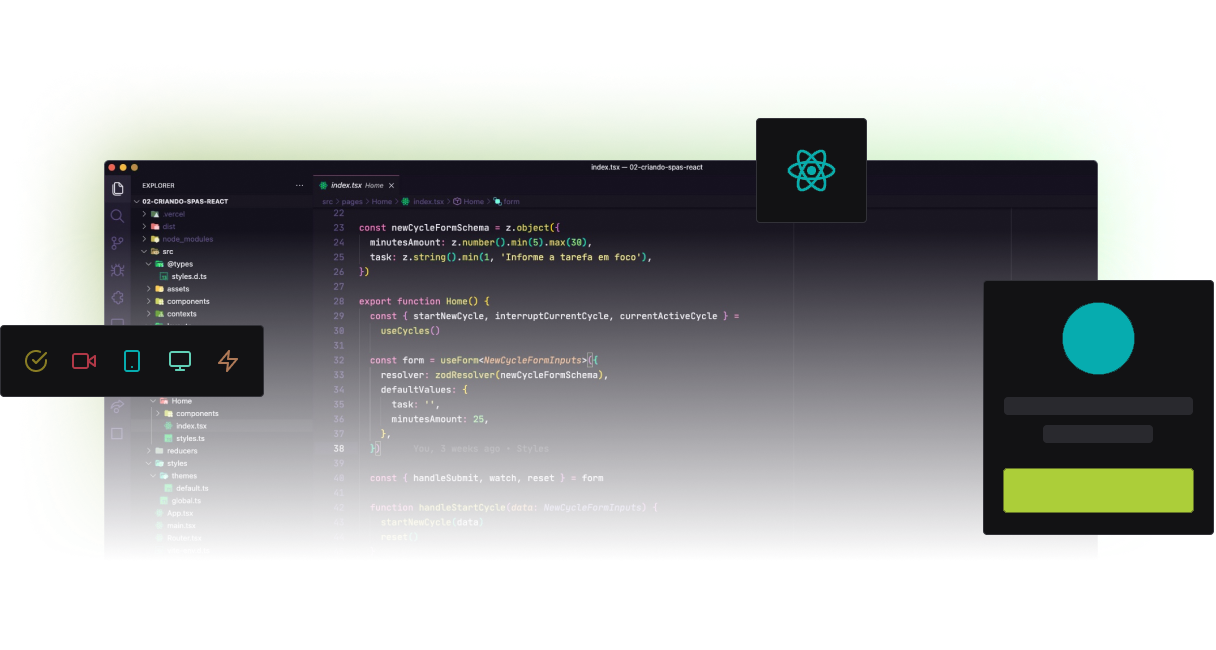
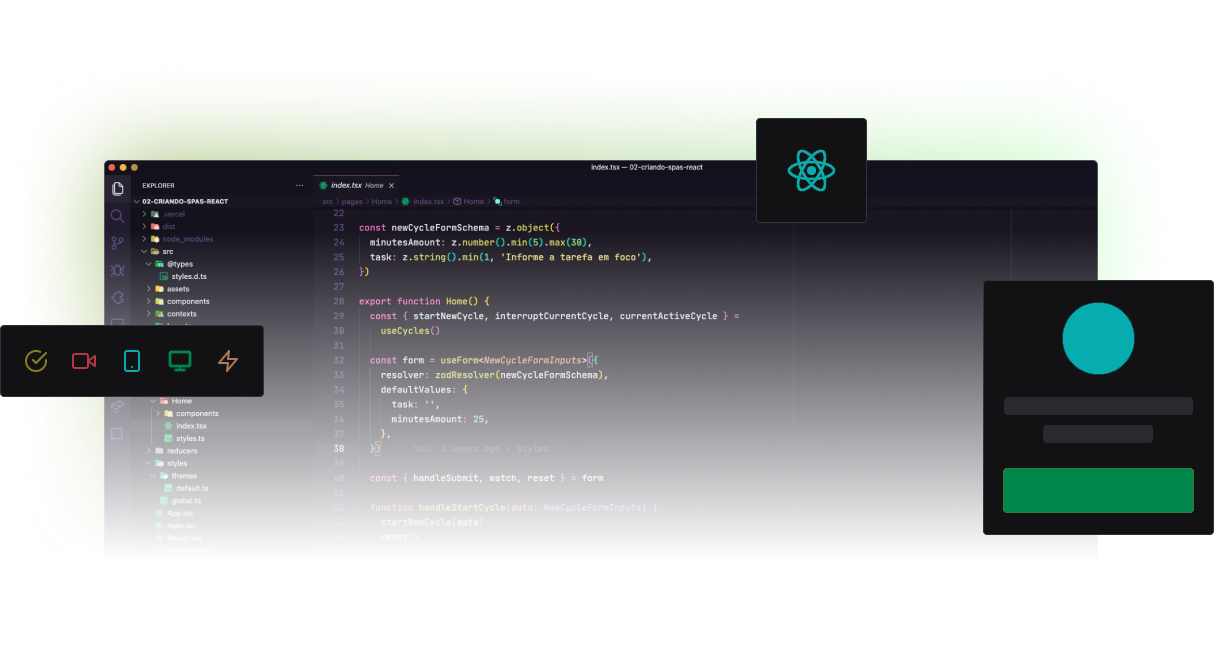
visualChanges

Changed region(s): [[0.8125, 0.7077, 1.0, 0.8], [0.125, 0.5231, 0.1562, 0.5846]]

diff --git a/src/components/VideoContent.tsx b/src/components/VideoContent.tsx
@@ -52,7 +52,7 @@ export function VideoContent(props: slugProps) {
             <p className="mt-4 text-gray-200 leading-relaxed whitespace-pre-wrap">{data?.lesson.description}</p>
             {data.lesson.teacher && (
               <div className="flex items-center gap-4 mt-6">
-              <img src={data?.lesson.teacher.avatarUrl} alt="teacherImg" className="h-16 w-16 rounded-full border-2 border-green-300" />
+              <img src={data?.lesson.teacher.avatarUrl} alt="teacherImg" className="h-16 w-16 rounded-full border-2 border-green-500" />
               <div className="leading-relaxed">
                 <strong className="font-bold text-2xl block">{data?.lesson.teacher.name}</strong>
                 <span className="text-gray-200 text-sm block whitespace-pre-wrap">{data?.lesson.teacher.bio}</span>
@@ -62,7 +62,7 @@ export function VideoContent(props: slugProps) {
           </div>
           <div className="flex flex-col gap-4">
             <a href="https://teams.microsoft.com/_#/conversations/19:d392b4c30811491ea5928ef26ac449fe@thread.v2?ctx=chat" target='_blank'
-              className="p-4 text-sm bg-green-300 text-gray-600 flex items-center rounded font-bold uppercase gap-2 justify-center hover:bg-green-700 hover:text-gray-200 transition-colors">
+              className="p-4 text-sm bg-green-500 text-white flex items-center rounded font-bold uppercase gap-2 justify-center hover:bg-green-700 hover:text-gray-200 transition-colors">
               <MicrosoftTeamsLogo size={24} />
               Comunidade do Teams
             </a>
@@ -75,7 +75,7 @@ export function VideoContent(props: slugProps) {
         </div>
         <div className="gap-8 mt-20 grid grid-cols-2">
           <a target='_blank' href="https://1drv.ms/u/s!AmJC1xFVjMCZjcJOZ2rriEfAruIq9A?e=bcWrV6" className="bg-gray-700 rounded overflow-hidden flex items-stretch gap-6 hover:bg-gray-600 transition-colors">
-            <div className="bg-green-300 h-full p-6 flex items-center text-gray-600">
+            <div className="bg-green-500 h-full p-6 flex items-center text-white">
               <FileArrowDown size={40} />
             </div>
             <div className="py-6 leading-relaxed">
@@ -87,7 +87,7 @@ export function VideoContent(props: slugProps) {
             </div>
           </a>
           <a target='_blank' href="https://1drv.ms/u/s!AmJC1xFVjMCZjcJPblUkyi7B8ukrQQ?e=xGcAd2" className="bg-gray-700 rounded overflow-hidden flex items-stretch gap-6 hover:bg-gray-600 transition-colors">
-            <div className="bg-green-300 h-full p-6 flex items-center text-gray-600">
+            <div className="bg-green-500 h-full p-6 flex items-center text-white">
               <Image size={40} />
             </div>
             <div className="py-6 leading-relaxed">

diff --git a/src/screens/Subscribe.tsx b/src/screens/Subscribe.tsx
@@ -34,7 +34,7 @@ export function Subscribe() {
                 <Logo />
               </Link>
               <h1 className="mt-8 text-[2.5rem] leading-tight">
-                Construa uma <strong className="text-green-300">aplicação completa</strong>, do zero, com <strong className="text-green-300">React JS</strong>
+                Construa uma <strong className="text-green-500">aplicação completa</strong>, do zero, com <strong className="text-green-500">React JS</strong>
               </h1>
               <p className="mt-4 text-gray-200 leading-relaxed">
                 Em apenas uma semana você vai dominar na prática uma das tecnologias mais utilizadas no mercado. Lembre-se, é necesario registrar presença NOS DIAS de mentoria para que a pontuação seja contabilizada.
@@ -57,7 +57,7 @@ export function Subscribe() {
                   onChange={event => setEmail(event.target.value)}
                   value={email}
                 />
-                <button disabled={loading} type="submit" className="mt-4 bg-green-300 uppercase py-4 rounded font-bold text-sm text-gray-500 hover:text-white hover:bg-green-700 transition-colors disabled:opacity-50">
+                <button disabled={loading} type="submit" className="mt-4 bg-green-500 uppercase py-4 rounded font-bold text-sm text-white hover:text-gray-200 hover:bg-green-700 transition-colors disabled:opacity-50">
                   Garantir presença
                 </button>
               </form>

diff --git a/src/components/Cards.tsx b/src/components/Cards.tsx
@@ -28,8 +28,8 @@ export function Cards(props: lesson) {
       </span>
 
       <div className={classNames('rounded border border-gray-500 p-4 mt-2', {
-        'bg-green-600 group-hover:border-white': slugActive,
-        'group-hover:border-green-300': !slugActive
+        'bg-green-500 group-hover:border-white': slugActive,
+        'group-hover:border-green-500': !slugActive
       })}>
 
         <header className='flex items-center justify-between'>
@@ -37,7 +37,7 @@ export function Cards(props: lesson) {
           {isLessonAvaliable ? (
             <span className={classNames('text-sm font-medium flex gap-2', {
               'text-white': slugActive,
-              'text-green-300': !slugActive
+              'text-green-500': !slugActive
             })}>
               <CheckCircle size={20} />
               Conteúdo liberado
@@ -50,7 +50,7 @@ export function Cards(props: lesson) {
 
           <span className={classNames('uppercase text-xs border rounded py-[0.125rem] px-[0.5rem] text-white font-bold', {
             'border-white': slugActive,
-            'border-green-300': !slugActive,
+            'border-green-500': !slugActive,
             'border-blue-500': !isLessonAvaliable
           })}>
             {props.type === 'class' ? 'aula teórica' : ' aula prática'}

diff --git a/src/styles/global.css b/src/styles/global.css
@@ -6,3 +6,24 @@ body {
   @apply bg-gray-900 text-gray-100;
   -webkit-font-smoothing: antialiased;
 }
+
+::-webkit-scrollbar{
+    width: 0.5rem;
+    height: 0.5rem;
+}
+
+::-webkit-scrollbar-track{
+    background-color: #0d0d0f;
+    border-radius: 10px;
+    margin-top: 3px;
+    margin-bottom: 3px;
+    box-shadow: inset 0 0 6px rgba(0, 0, 0, 0.3);
+}
+::-webkit-scrollbar-thumb{
+    border-radius: 10px;
+    background-color: #053a37;
+}
+
+::-webkit-scrollbar-thumb:hover {
+    background-color: #00854a;
+}

diff --git a/src/components/Header.tsx b/src/components/Header.tsx
@@ -3,7 +3,7 @@ import { Logo } from "./Logo";
 
 export function Header () {
   return(
-    <header className="w-full py-5 flex items-center justify-center bg-gray-700 border-b border-gray-600">
+    <header className="w-full py-5 flex items-center justify-center bg-gray-700 border-b border-gray-600 sticky top-0">
       <Link to={'/'}>
         <Logo/>
       </Link>

diff --git a/src/components/Logo.tsx b/src/components/Logo.tsx
@@ -1,4 +1,4 @@
-import logo from '/src/assets/logoHeader.png'
+import logo from '/src/assets/logoHeader.svg'
 
 export function Logo () {
   return(
